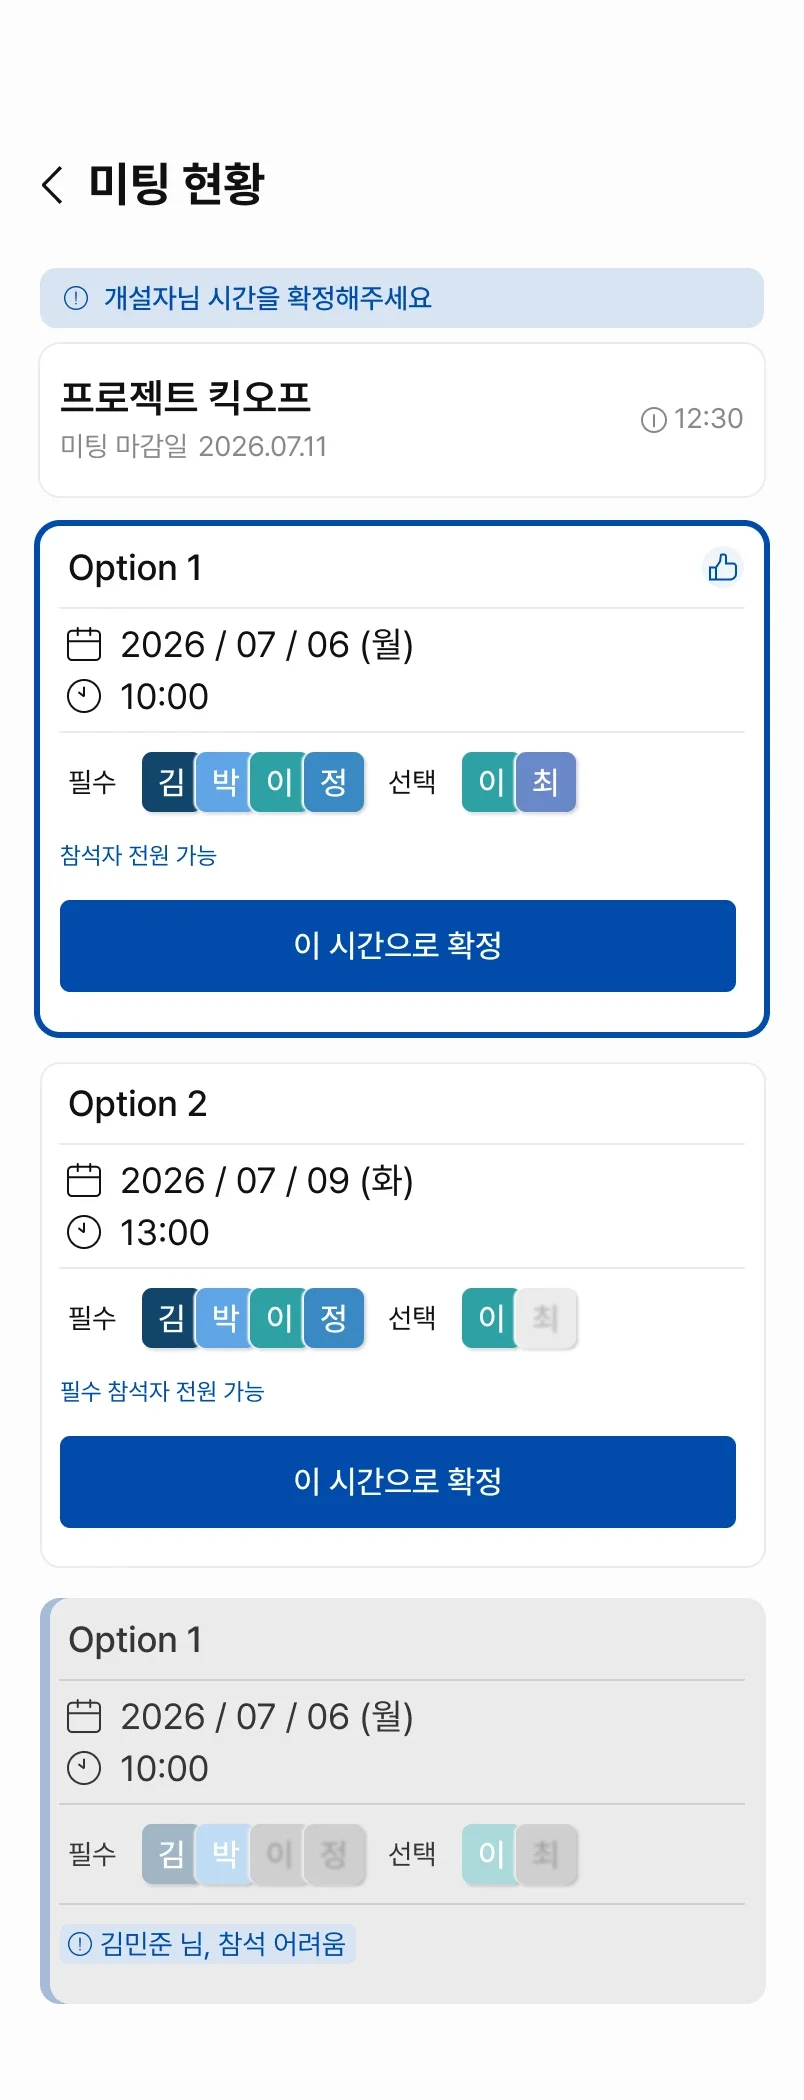
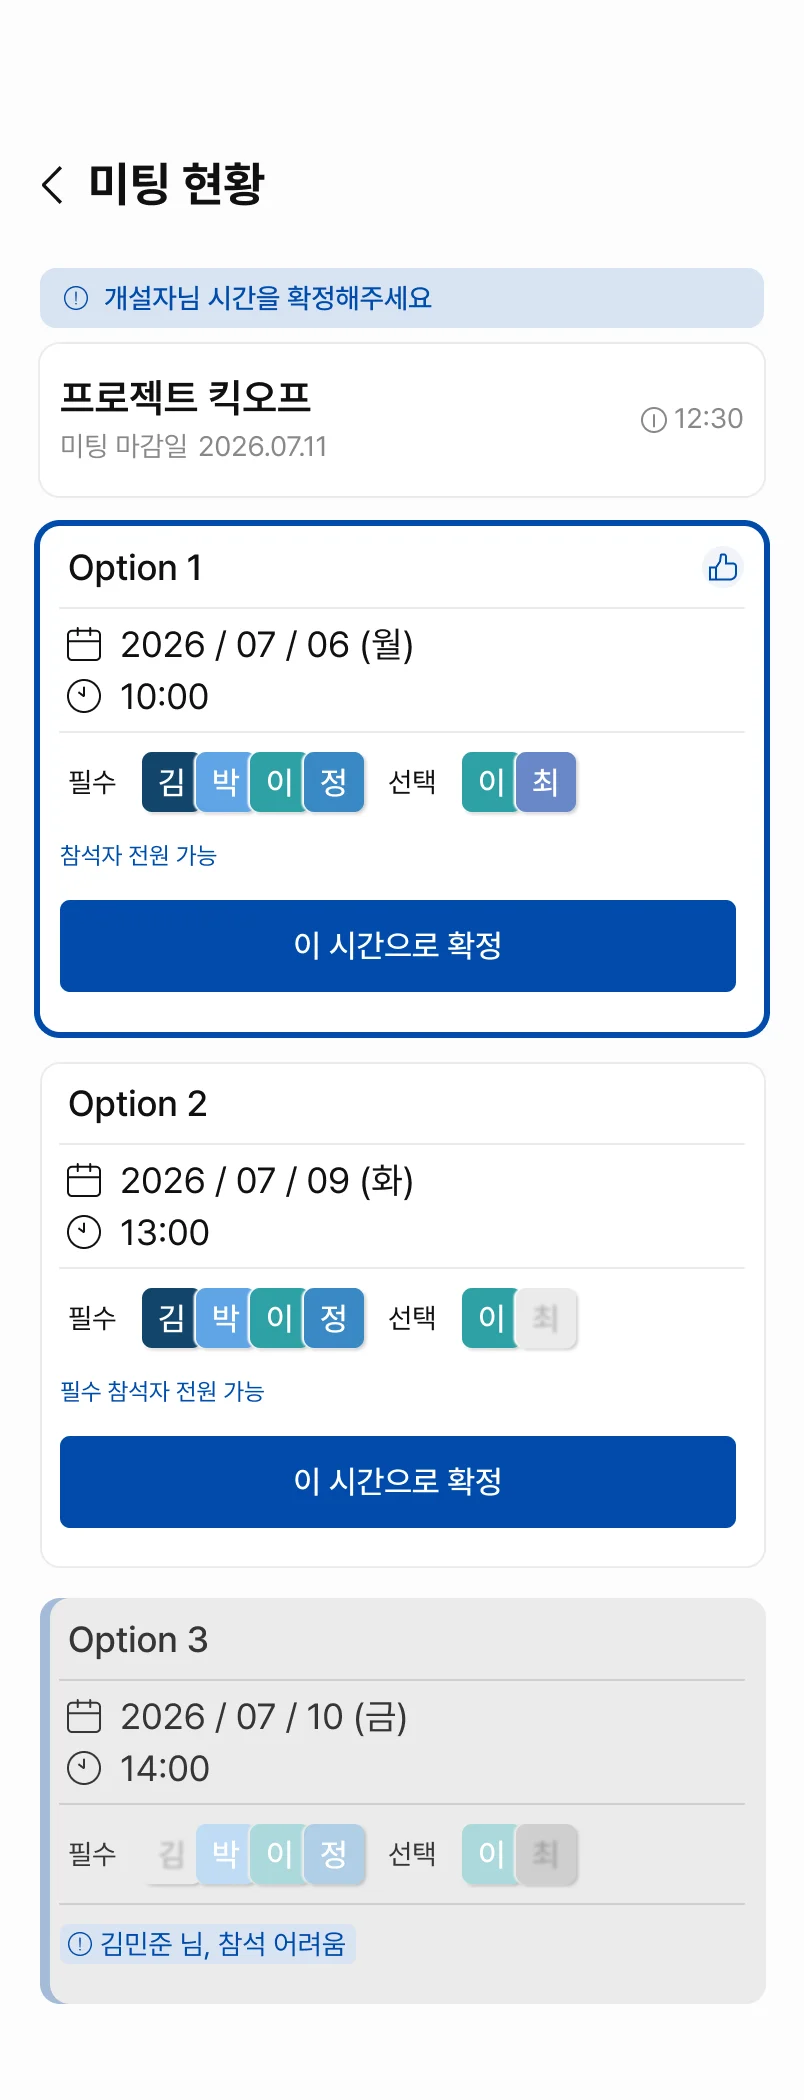
결과 화면 교체: 세 번째 후보를 Option 3로 바로잡고, 시나리오 #1·#2에 개설자 결과 화면 연결
Claude-Session: https://claude.ai/code/session_01D1oaS66KVoYkzVb5mZJJKb

diff --git a/index.html b/index.html
@@ -773,17 +773,17 @@ footer a:hover{color:var(--blue)}
         <button class="ctab" role="tab" aria-selected="true" data-case="1"
           data-desc="세 후보 모두 투표할 수 있습니다. 제출하면 개설자에게 시간 확정 화면이 열립니다."><b>#1</b>후보 3안 모두 가능</button>
         <button class="ctab" role="tab" aria-selected="false" data-case="2"
-          data-desc="불가를 누르면 실시간으로 반영됩니다. 해당 카드가 비활성화되고 누가 어려운지 이름이 표시됩니다."><b>#2</b>일부 후보 불가</button>
+          data-desc="필수 참석자가 어려운 후보는 비활성화되고 누가 어려운지 이름이 표시됩니다. 개설자는 남은 후보 중에서 확정합니다."><b>#2</b>일부 후보 불가</button>
         <button class="ctab" role="tab" aria-selected="false" data-case="3"
           data-desc="남은 후보가 없어 제출 버튼이 재조율 요청으로 바뀝니다. 개설자에게는 재조율 안내가 열리고, 종료 보장 단계로 이어집니다."><b>#3</b>후보 3안 모두 불가</button>
       </div>
       <p class="case-desc" id="caseDesc">세 후보 모두 투표할 수 있습니다. 제출하면 개설자에게 시간 확정 화면이 열립니다.</p>
 
       <div class="spane on" data-case="1">
-        <div class="sstep"><figure class="scard"><div class="sc-in"><img src="./img/sc-vote1.webp" alt="참석자의 투표 화면. 세 후보 모두 가능으로 선택되어 있다." loading="lazy"></div></figure><p class="shotcap">참석자 · 후보 투표</p></div><span class="sarr" aria-hidden="true">→</span><div class="sstep"><figure class="scard"><div class="sc-in"><img src="./img/f-result.webp" alt="개설자의 미팅 현황 화면. 추천 후보에 배지와 강조 테두리가 붙어 있다." loading="lazy"></div></figure><p class="shotcap">개설자 · 시간 확정</p></div>
+        <div class="sstep"><figure class="scard"><div class="sc-in"><img src="./img/sc-vote1.webp" alt="참석자의 투표 화면. 세 후보 모두 가능으로 선택되어 있다." loading="lazy"></div></figure><p class="shotcap">참석자 · 후보 투표</p></div><span class="sarr" aria-hidden="true">→</span><div class="sstep"><figure class="scard"><div class="sc-in"><img src="./img/sc-result1.webp" alt="개설자의 미팅 현황 화면. 세 후보 모두 필수 참석자 전원이 가능하고, 추천 후보에 배지와 강조 테두리가 붙어 있다." loading="lazy"></div></figure><p class="shotcap">개설자 · 시간 확정</p></div>
       </div>
       <div class="spane" data-case="2">
-        <div class="sstep"><figure class="scard"><div class="sc-in"><img src="./img/sc-vote2.webp" alt="참석자의 투표 화면. 김민준 님이 어려운 세 번째 후보가 비활성화되어 있다." loading="lazy"></div></figure><p class="shotcap">참석자 · 후보 투표</p></div>
+        <div class="sstep"><figure class="scard"><div class="sc-in"><img src="./img/sc-vote2.webp" alt="참석자의 투표 화면. 김민준 님이 어려운 세 번째 후보가 비활성화되어 있다." loading="lazy"></div></figure><p class="shotcap">참석자 · 후보 투표</p></div><span class="sarr" aria-hidden="true">→</span><div class="sstep"><figure class="scard"><div class="sc-in"><img src="./img/f-result.webp" alt="개설자의 미팅 현황 화면. 김민준 님이 어려운 세 번째 후보는 비활성화되고, 남은 두 후보 중 추천 후보에 배지가 붙어 있다." loading="lazy"></div></figure><p class="shotcap">개설자 · 시간 확정</p></div>
       </div>
       <div class="spane" data-case="3">
         <div class="sstep"><figure class="scard"><div class="sc-in"><img src="./img/sc-vote3.webp" alt="참석자의 투표 화면. 세 후보 모두 비활성화되고 하단 버튼이 재조율 요청하기로 바뀌어 있다." loading="lazy"></div></figure><p class="shotcap">참석자 · 재조율 요청</p></div><span class="sarr" aria-hidden="true">→</span><div class="sstep"><figure class="scard"><div class="sc-in"><img src="./img/reschedule.webp" alt="개설자의 재조율 안내 화면. 같은 기간 재계산과 기간 확장 중 하나를 고르고, 직접 시간 지정으로 넘어갈 수 있다." loading="lazy"></div></figure><p class="shotcap">개설자 · 재조율 안내</p></div><span class="sarr" aria-hidden="true">→</span><a class="snext" href="#safety"><em>NEXT</em><b>종료 보장</b><span>재계산 → 기간 확장 → 이의 접수 → 직접 지정</span></a>
